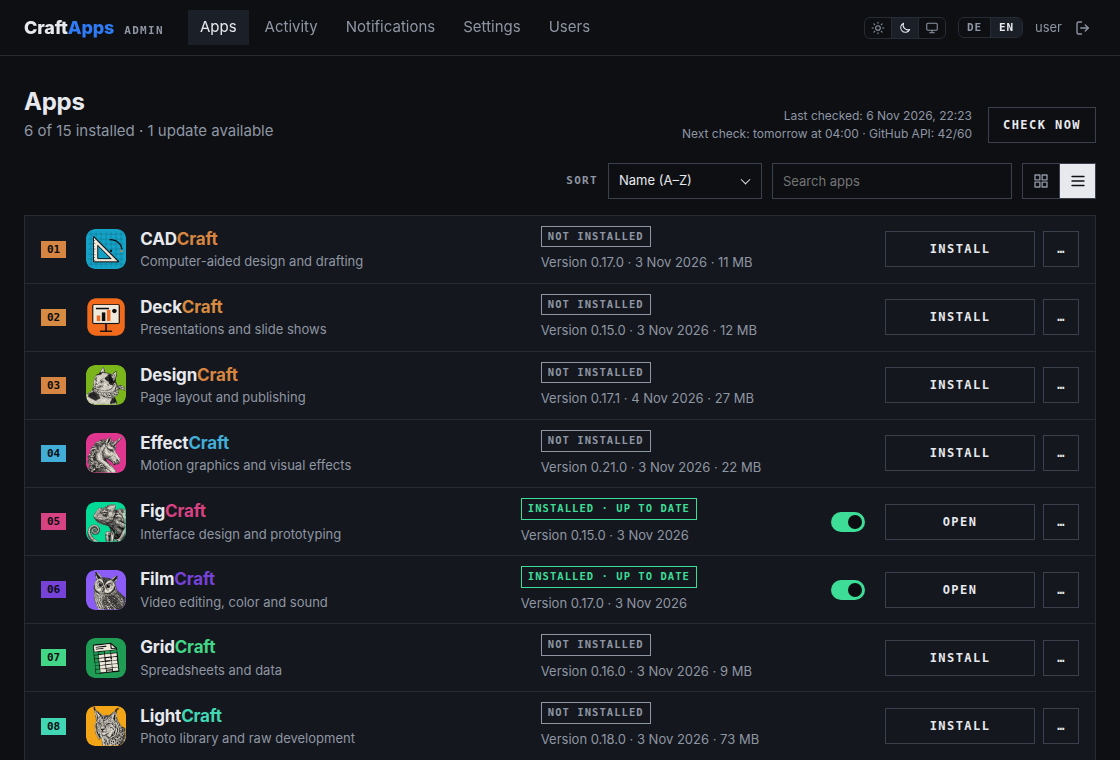
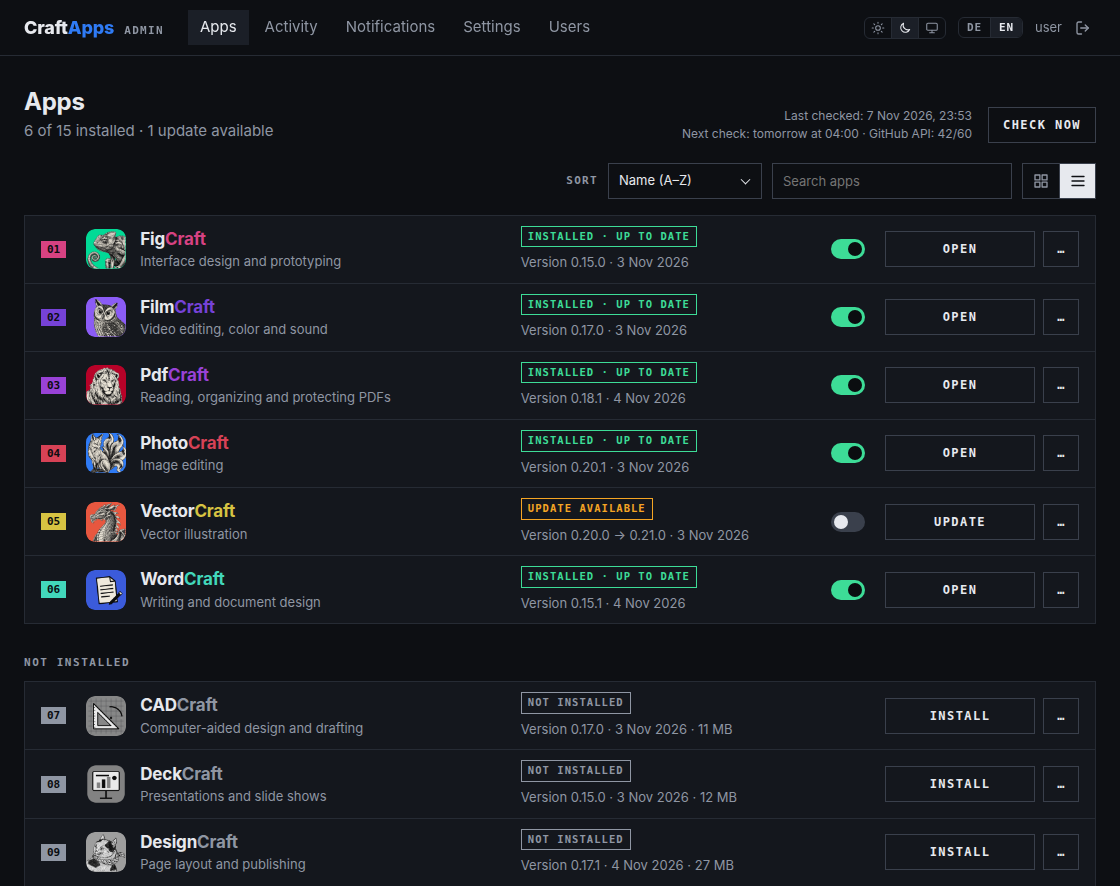
feat(ticket#48): show the apps that aren't installed in a section of their own, greyed out
Like in the launcher, the apps tab lists the installed apps first and the
others below the heading "Not installed" – both in the chosen order and
within the search, as tiles or as a list. Cards of apps that aren't
installed are greyed out: the icon loses its colors, and number, name and
placeholder are grey instead of the app color (its own value in the light
design, --app-off). The numbers and the paging of the details window run on
across both sections; a section without a match is left out with its
heading. In the list, the column of the auto-update switch keeps its width
on rows without one ($switch-width), so all rows line up. README and the
screenshots of the apps tab updated.

diff --git a/admin/src/web/pages/AppsPage/AppsPage.tsx b/admin/src/web/pages/AppsPage/AppsPage.tsx
@@ -1,5 +1,5 @@
 import { useCallback, useEffect, useRef, useState } from 'react';
-import type { StateView } from '../../../shared/types';
+import type { AppView, StateView } from '../../../shared/types';
 import { api } from '../../lib/api';
 import { arrange, saveLayout, saveSort, storedLayout, storedSort, type Layout, type Sort } from '../../lib/appsView';
 import type { Action } from '../../components/AppActions/AppActions';
@@ -51,7 +51,12 @@ export function AppsPage() {
   if (!state) return <p className="muted">{t('common.loading')}</p>;
 
   const installed = state.apps.filter((a) => a.status !== 'not-installed').length;
-  const shown = arrange(state.apps, sort, query, getLocale());
+  // In the chosen order and within the search: the installed apps first, then – in a section of
+  // their own, like in the launcher – the others
+  const arranged = arrange(state.apps, sort, query, getLocale());
+  const ready = arranged.filter((a) => a.status !== 'not-installed');
+  const notInstalled = arranged.filter((a) => a.status === 'not-installed');
+  const shown = [...ready, ...notInstalled];
   // Paging goes through the apps as shown – in their order, within the search
   const openIndex = shown.findIndex((a) => a.id === openId);
   const openApp = state.apps.find((a) => a.id === openId);
@@ -63,6 +68,23 @@ export function AppsPage() {
     setOpenId(null);
     opener.current?.focus();
   };
+  // One grid of cards; their numbers go on across both sections
+  const grid = (apps: AppView[], first: number) =>
+    apps.length > 0 && (
+      <div className={layout === 'list' ? 'grid list' : 'grid'}>
+        {apps.map((app, index) => (
+          <AppCard
+            key={app.id}
+            app={app}
+            index={first + index}
+            layout={layout}
+            onOpen={() => openDetails(app.id)}
+            onAction={(action: Action) => run('POST', `/api/apps/${app.id}/${action}`)}
+            onAutoUpdate={(enabled) => run('PATCH', `/api/apps/${app.id}`, { autoUpdate: enabled })}
+          />
+        ))}
+      </div>
+    );
   const updates = state.apps.filter((a) => a.status === 'update-available').length;
   const github =
     state.github.remaining !== null
@@ -129,19 +151,15 @@ export function AppsPage() {
       ) : shown.length === 0 ? (
         <p className="banner">{t('apps.noMatch', { query: query.trim() })}</p>
       ) : (
-        <div className={layout === 'list' ? 'grid list' : 'grid'}>
-          {shown.map((app, index) => (
-            <AppCard
-              key={app.id}
-              app={app}
-              index={index}
-              layout={layout}
-              onOpen={() => openDetails(app.id)}
-              onAction={(action: Action) => run('POST', `/api/apps/${app.id}/${action}`)}
-              onAutoUpdate={(enabled) => run('PATCH', `/api/apps/${app.id}`, { autoUpdate: enabled })}
-            />
-          ))}
-        </div>
+        <>
+          {grid(ready, 0)}
+          {notInstalled.length > 0 && (
+            <>
+              <h2 className="apps-section">{t('apps.notInstalled')}</h2>
+              {grid(notInstalled, ready.length)}
+            </>
+          )}
+        </>
       )}
       {openApp && (
         <AppDetails

diff --git a/admin/src/web/components/AppCard/_app-card.scss b/admin/src/web/components/AppCard/_app-card.scss
@@ -20,6 +20,26 @@
   }
 }
 
+// Not installed: greyed out like in the launcher – the icon without its colors, and grey instead
+// of the app color for number, name and placeholder (light enough for the dark number)
+:root {
+  --app-off: var(--muted);
+}
+
+@include shared.light {
+  --app-off: var(--line-strong);
+}
+
+.card.not-installed {
+  > * {
+    --c: var(--app-off);
+  }
+
+  .icon {
+    filter: grayscale(1);
+  }
+}
+
 // The name: a button for the keyboard that looks like the heading
 .card-name {
   padding: 0;
@@ -147,7 +167,8 @@
 // and the actions side by side; the links are in the "…" menu
 .list .card {
   display: grid;
-  grid-template-columns: auto minmax(0, 2fr) minmax(0, 1.4fr) auto auto;
+  // The switch's column keeps its width without a switch, so all rows line up
+  grid-template-columns: auto minmax(0, 2fr) minmax(0, 1.4fr) shared.$switch-width auto;
   grid-template-areas: "num head state toggle actions";
   align-items: center;
   column-gap: 20px;

diff --git a/admin/src/web/components/AppCard/AppCard.tsx b/admin/src/web/components/AppCard/AppCard.tsx
@@ -33,7 +33,11 @@ export function AppCard({
   }
 
   return (
-    <article className="card" style={{ '--c': app.color } as CSSProperties} onClick={click}>
+    <article
+      className={app.status === 'not-installed' ? 'card not-installed' : 'card'}
+      style={{ '--c': app.color } as CSSProperties}
+      onClick={click}
+    >
       <header className="card-top">
         <span className="num">{String(index + 1).padStart(2, '0')}</span>
         <nav className="card-links">

diff --git a/admin/src/web/styles/_shared.scss b/admin/src/web/styles/_shared.scss
@@ -85,6 +85,9 @@ $user-name: 6em;
 // Below this width two columns side by side (the details of an app) become one
 $two-columns: 1000px;
 
+// Width of the switch (Toggle) – the list of apps keeps a column that wide, with or without one
+$switch-width: 34px;
+
 // Width of the pages with forms (notifications, settings, users) – a column in the middle
 $column: 760px;
 

diff --git a/admin/src/web/components/Toggle/_toggle.scss b/admin/src/web/components/Toggle/_toggle.scss
@@ -1,4 +1,5 @@
 // Switch with a label (Toggle); the checkbox itself stays in the page, but invisible
+@use '../../styles/shared';
 
 .toggle {
   display: flex;
@@ -21,7 +22,7 @@
 .switch {
   position: relative;
   flex: none;
-  width: 34px;
+  width: shared.$switch-width;
   height: 20px;
   border-radius: 10px;
   background: var(--line-strong);

diff --git a/admin/src/web/pages/AppsPage/_apps-page.scss b/admin/src/web/pages/AppsPage/_apps-page.scss
@@ -13,3 +13,10 @@
     grid-template-columns: 1fr;
   }
 }
+
+// Heading of the apps that aren't installed, below the installed ones – like in the launcher
+.apps-section {
+  margin: 32px 0 12px;
+  color: var(--muted);
+  @include shared.label(11px, 0.14em);
+}

diff --git a/README.de.md b/README.de.md
@@ -149,7 +149,8 @@ Registry-Eintrag.
 - **Apps** im Raster wie der Craft Launcher – mit dessen Icons, Markenfarben und
   Kurzbeschreibungen: installieren, aktualisieren, neu installieren, deinstallieren,
   automatische Updates je App an- oder ausschalten. Sortiert nach Name, Nutzung oder neuestem
-  Release, durchsuchbar, als Kacheln oder Liste – auch auf der Startseite.
+  Release, durchsuchbar, als Kacheln oder Liste – auch auf der Startseite. Nicht installierte
+  Apps folgen ausgegraut in einem eigenen Bereich.
 - **Details jeder App** wie im Launcher: was sie ist, ihre Screenshots und Funktionen und die
   neueste Version – in der Verwaltung per Klick auf eine App, mit allen Aktionen; auf der
   Startseite über das Info-Symbol einer Kachel, mit **Öffnen**.
@@ -180,13 +181,14 @@ Apps im Volume `craftapps_data`, das nginx nur lesend einbindet.
 
 ### Screenshots
 
-**Apps:** eine Karte je App – hier installiert, mit wartendem Update (automatische Updates
-aus) und noch nicht installiert. Darüber Sortierung, Suche und der Wechsel zwischen Kacheln und
-Liste; Sortierung und Ansicht merkt sich der Browser. **Am häufigsten genutzt** zählt, wie oft
+**Apps:** eine Karte je App – hier installiert und mit wartendem Update (automatische Updates
+aus); darunter in einem eigenen Bereich die noch nicht installierten, ausgegraut wie im
+Launcher und in derselben Reihenfolge. Darüber Sortierung, Suche und der Wechsel zwischen
+Kacheln und Liste; Sortierung und Ansicht merkt sich der Browser. **Am häufigsten genutzt** zählt, wie oft
 eine App in diesem Browser von der Seite aus geöffnet wurde – so wie der Desktop-Launcher auf
 seinem Rechner:
 
-![Verwaltung: Apps mit Status, Version und automatischen Updates](docs/images/admin-apps-de.png)
+![Verwaltung: die installierten Apps mit Status, Version und automatischen Updates, darunter die ausgegrauten noch nicht installierten](docs/images/admin-apps-de.png)
 
 Als Liste, eine Zeile je App – die Links zu Website und GitHub stehen dort im Menü **…**:
 

diff --git a/README.md b/README.md
@@ -149,7 +149,7 @@ Public images such as `nginx:alpine` or the ready-made admin image need no regis
 - **Apps** in a grid like the Craft Launcher – with its icons, brand colors and short
   descriptions: install, update, reinstall, uninstall, toggle automatic updates per app.
   Sorted by name, by use or by the newest release, searchable, as tiles or as a list – on the
-  start page as well.
+  start page as well. Apps that aren't installed follow in a section of their own, greyed out.
 - **Details of every app** as in the launcher: what it is, its screenshots and features and
   the latest version – in the admin UI a click on an app opens them, with all its actions; on
   the start page the info button on a tile, with **Open**.
@@ -179,12 +179,13 @@ volume `craftapps_data`, which nginx mounts read-only.
 
 ### Screenshots
 
-**Apps:** one card per app – here installed, with an update waiting (automatic updates
-turned off) and not installed yet. Above them the order, a search and the switch between tiles
+**Apps:** one card per app – here installed and with an update waiting (automatic updates
+turned off); below them, in a section of their own, the apps not installed yet, greyed out like
+in the launcher, in the same order. Above them the order, a search and the switch between tiles
 and a list; this browser remembers order and layout. **Most used** counts how often an app was
 opened from the page in this browser, like the desktop launcher does on its computer:
 
-![Admin UI: apps with their state, version and automatic updates](docs/images/admin-apps-en.png)
+![Admin UI: the installed apps with their state, version and automatic updates, below them the greyed-out apps not installed yet](docs/images/admin-apps-en.png)
 
 As a list, one row per app – the links to the website and GitHub are in the **…** menu there:
 
